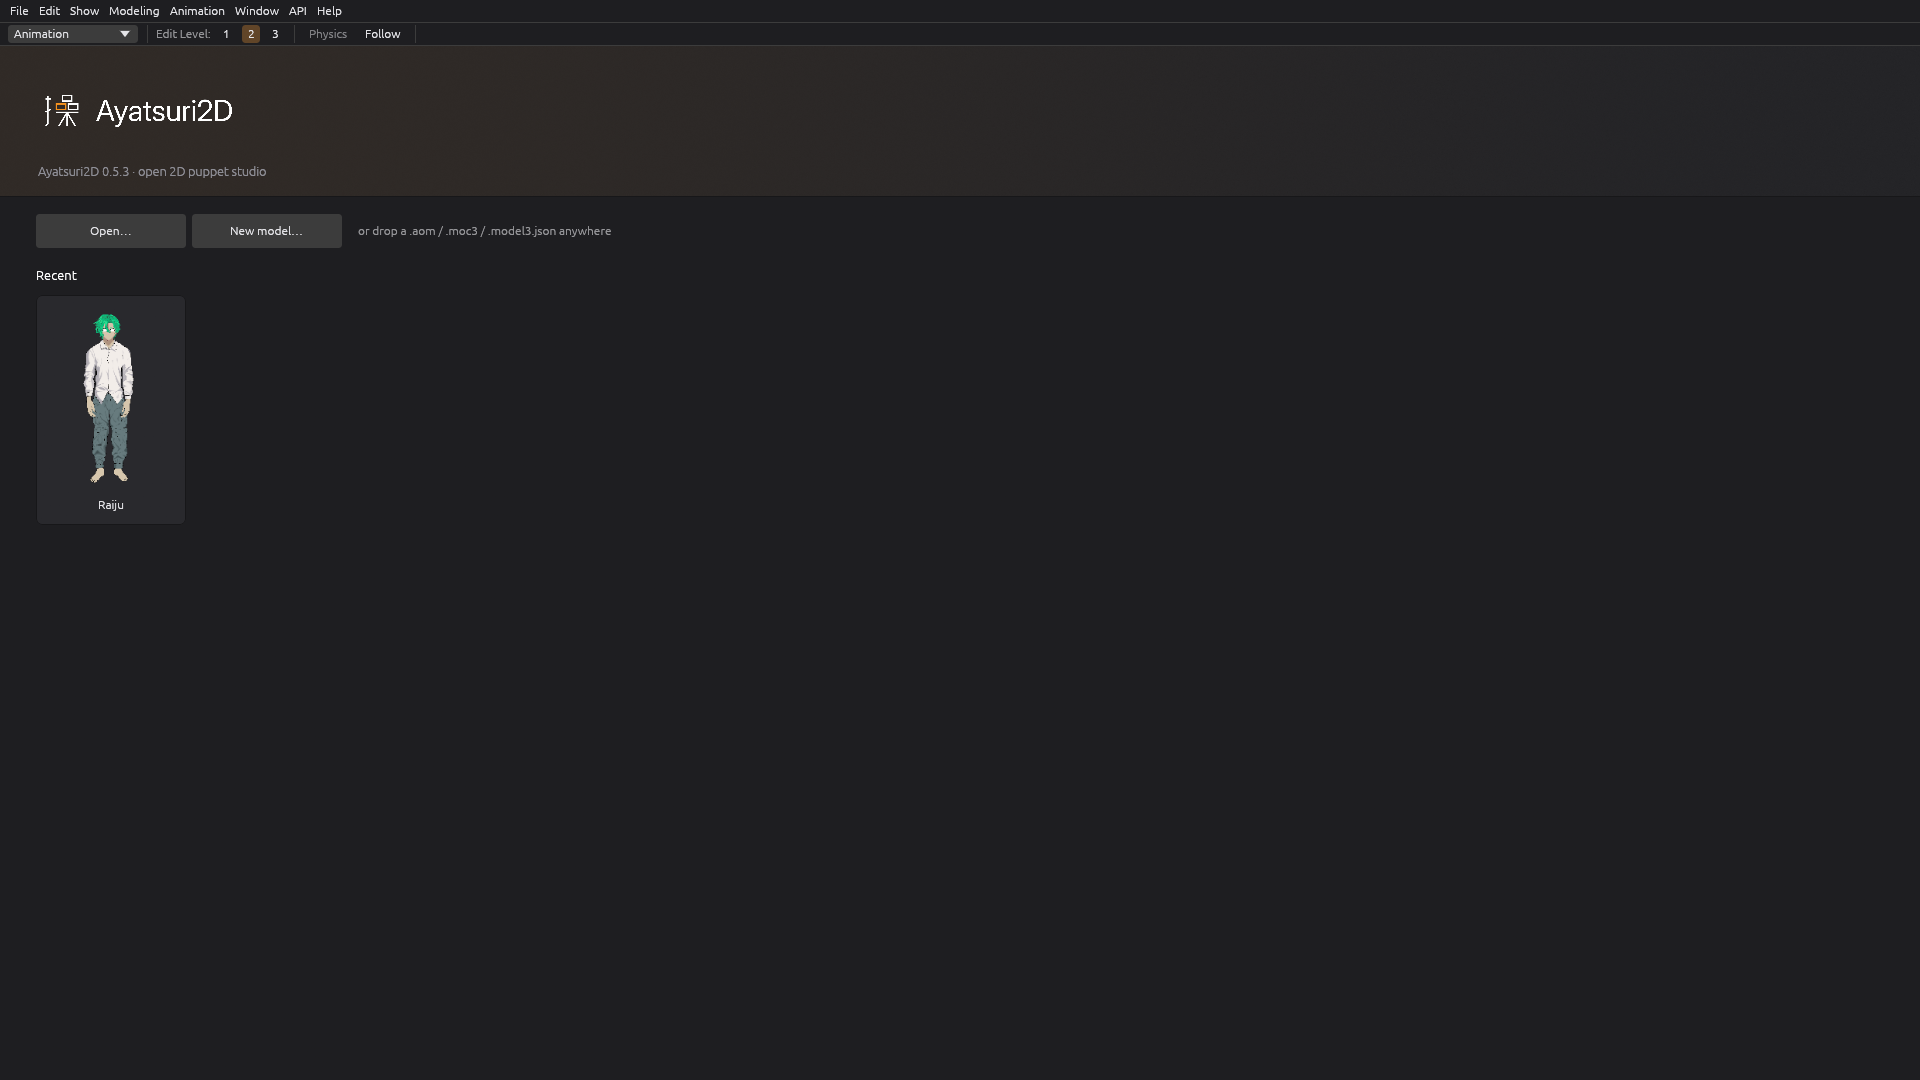
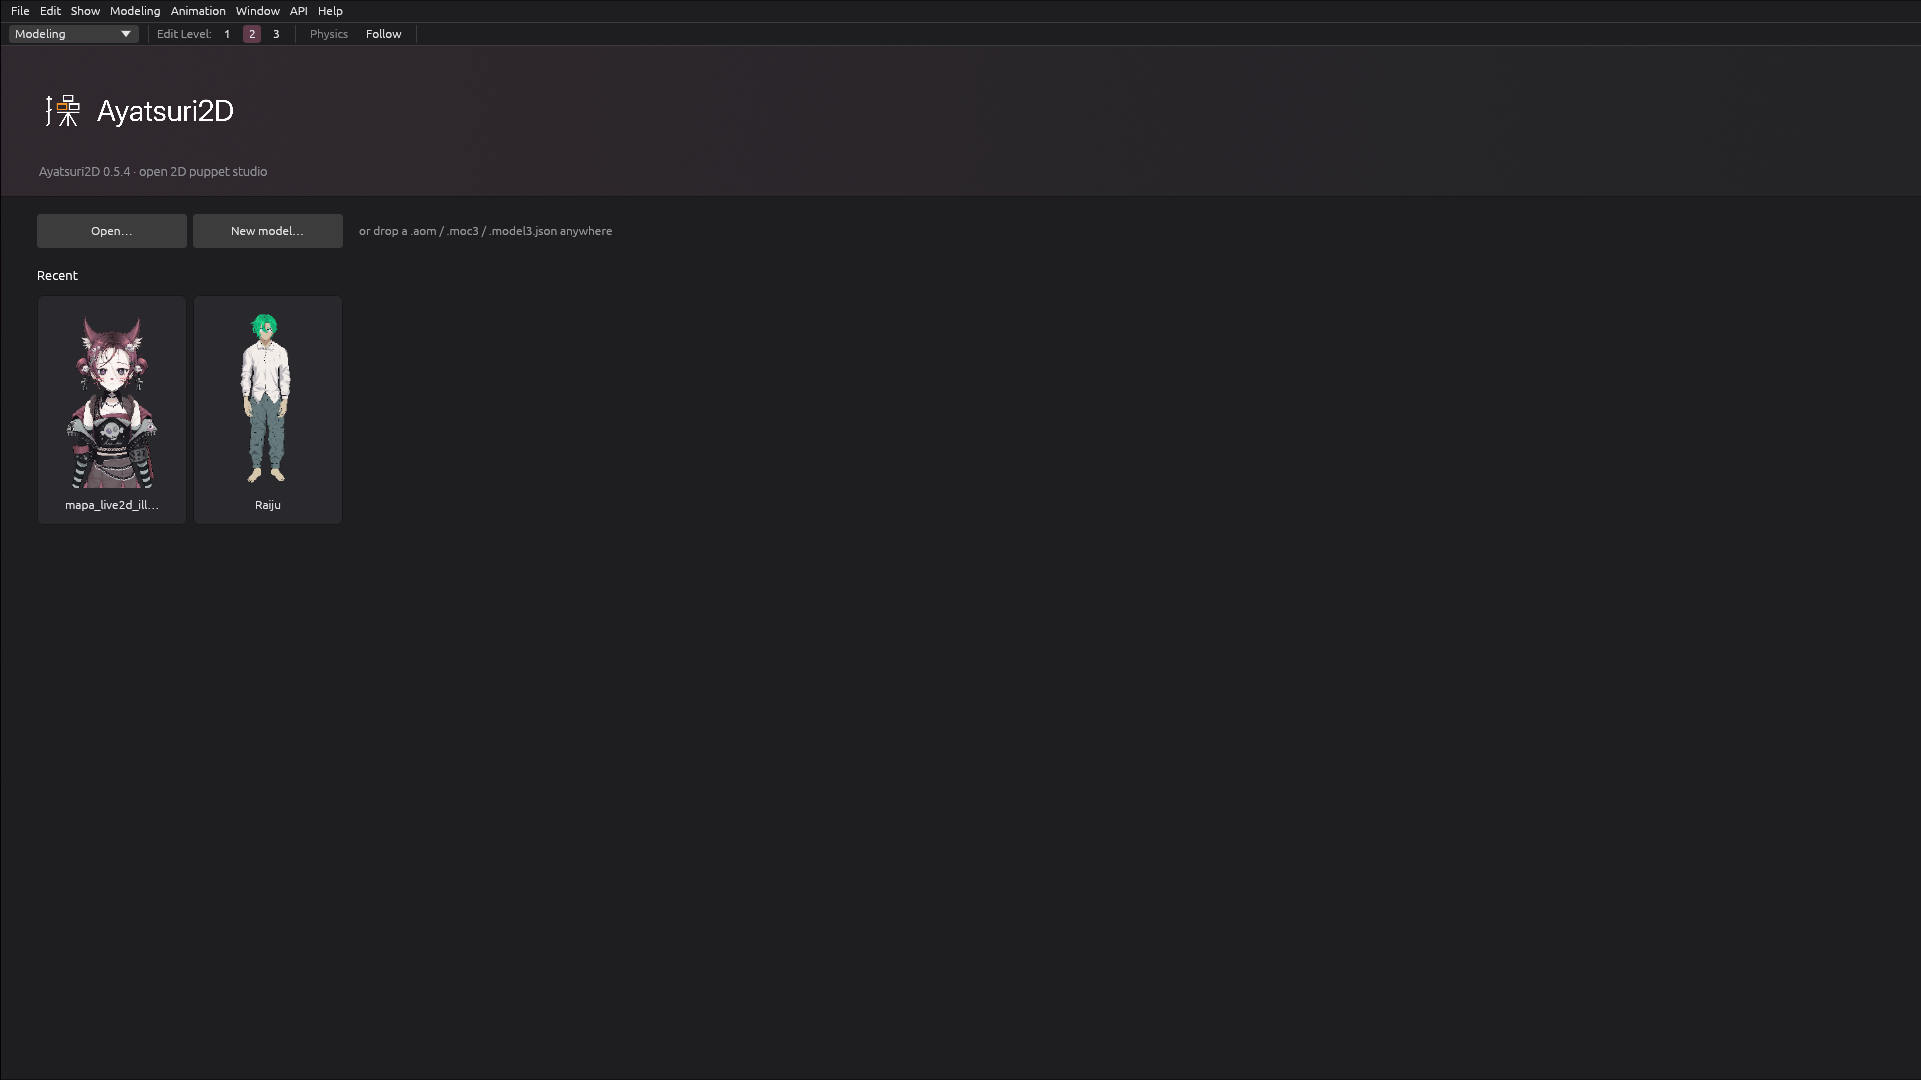
docs: new home screen screenshot

diff --git a/README.md b/README.md
@@ -166,6 +166,7 @@ integrated graphics** opens in 1.6 seconds, uses 486 MB of memory and about
 <p align="center">
   <img src="docs/media/dashboard.png" alt="The Ayatsuri2D home screen with recent models" width="900">
 </p>
+<p align="center">Model art (left) by <a href="https://www.pixiv.net/users/99163365"><b>マパ*MAPA</b></a> (pixiv ID 99163365), used with permission. Thank you!</p>
 
 - Dockable, rearrangeable panels and saved workspaces.
 - Light and dark themes, your own primary colour, interface scale, density and
@@ -318,7 +319,7 @@ copyleft runtime cannot be embedded in a proprietary game. See
 
 ## Artwork
 
-The model in the top, Mesh Edit and rigging screenshots is drawn by
+The model in the top, Mesh Edit, rigging and home screen screenshots is drawn by
 **マパ\*MAPA** ([pixiv profile](https://www.pixiv.net/users/99163365), ID
 99163365), who kindly let us use their PSD to show the editor. Thank you!
 The artwork remains theirs: it is not covered by this repository's licences,
